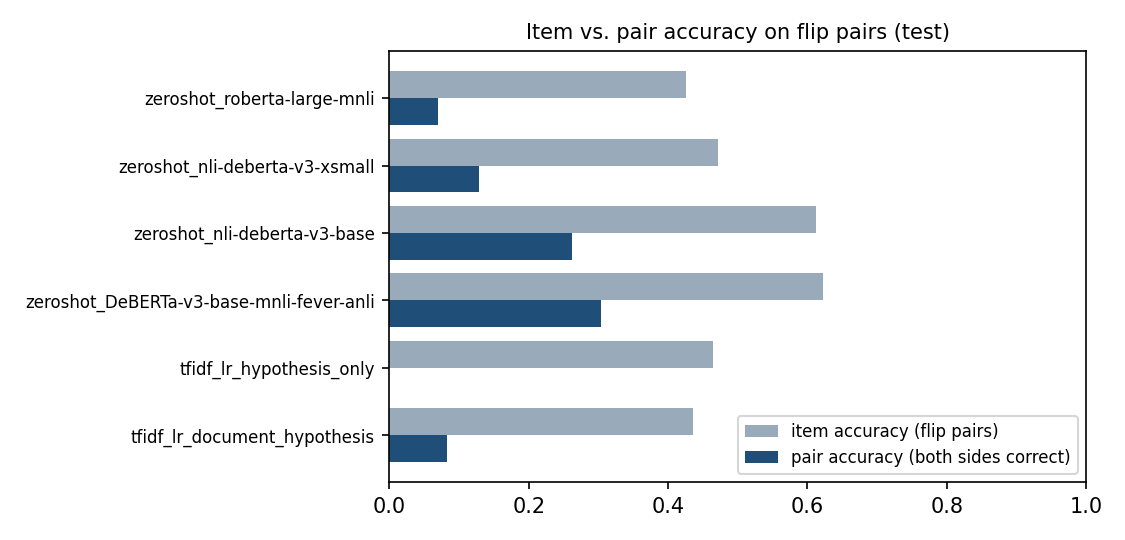
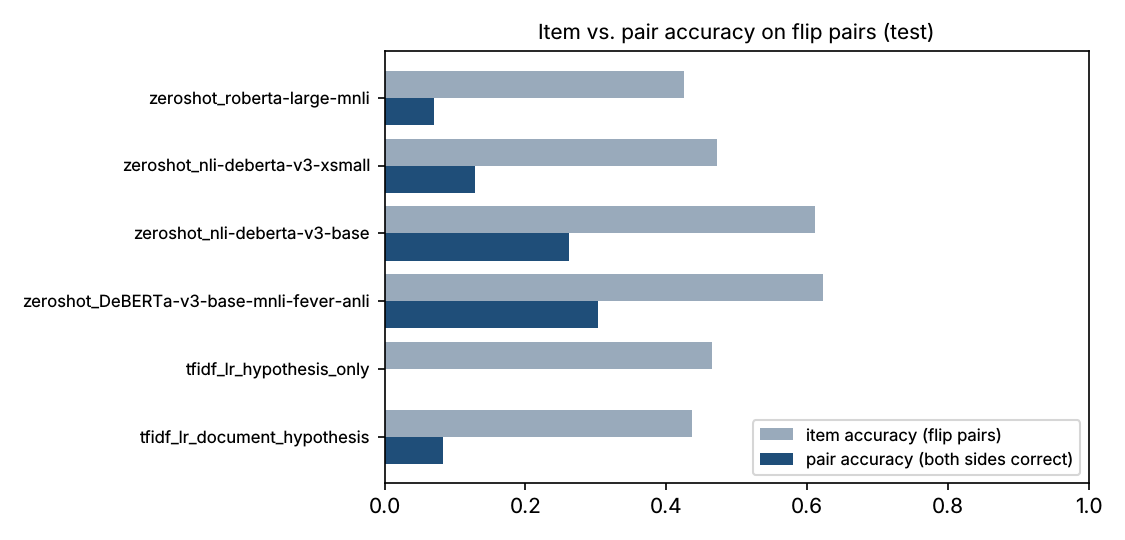
Results: reproduction check of stored zero-shot predictions
Automated checkpoint from scripts/run_cloud_queue.sh (tests passed, tables regenerated).

Claude-Session: https://claude.ai/code/session_01GGpeb3aQtBq4JH6BHTfvnv

diff --git a/results/ERROR_ANALYSIS.md b/results/ERROR_ANALYSIS.md
@@ -26,6 +26,22 @@
 | contradicted | 330 | 611 | 2 |
 | insufficient | 208 | 403 | 7 |
 
+**zeroshot_DeBERTa-v3-base-mnli-fever-anli**
+
+| gold \ pred | entailed | contradicted | insufficient |
+|---|---|---|---|
+| entailed | 454 | 400 | 145 |
+| contradicted | 172 | 676 | 95 |
+| insufficient | 125 | 263 | 230 |
+
+**zeroshot_nli-deberta-v3-base**
+
+| gold \ pred | entailed | contradicted | insufficient |
+|---|---|---|---|
+| entailed | 518 | 400 | 81 |
+| contradicted | 281 | 604 | 58 |
+| insufficient | 170 | 281 | 167 |
+
 **zeroshot_nli-deberta-v3-xsmall**
 
 | gold \ pred | entailed | contradicted | insufficient |
@@ -33,6 +49,14 @@
 | entailed | 74 | 399 | 526 |
 | contradicted | 13 | 642 | 288 |
 | insufficient | 33 | 279 | 306 |
+
+**zeroshot_roberta-large-mnli**
+
+| gold \ pred | entailed | contradicted | insufficient |
+|---|---|---|---|
+| entailed | 0 | 384 | 615 |
+| contradicted | 0 | 638 | 305 |
+| insufficient | 0 | 288 | 330 |
 
 ## Exact-boundary edits (threshold_cross, date_cross)
 
@@ -43,7 +67,10 @@ Item accuracy on the side of the pair whose case value equals the cutoff ("more 
 | majority | 41 | 0.537 | 0.495 |
 | tfidf_lr_document_hypothesis | 41 | 0.122 | 0.412 |
 | tfidf_lr_hypothesis_only | 41 | 0.195 | 0.545 |
+| zeroshot_DeBERTa-v3-base-mnli-fever-anli | 41 | 0.000 | 0.538 |
+| zeroshot_nli-deberta-v3-base | 41 | 0.000 | 0.530 |
 | zeroshot_nli-deberta-v3-xsmall | 41 | 0.000 | 0.323 |
+| zeroshot_roberta-large-mnli | 41 | 0.000 | 0.297 |
 
 ## Calibration (test, 10-bin ECE)
 
@@ -51,4 +78,7 @@ Item accuracy on the side of the pair whose case value equals the cutoff ("more 
 |---|---|---|---|
 | tfidf_lr_document_hypothesis | 0.017 | 0.412 | 0.413 |
 | tfidf_lr_hypothesis_only | 0.038 | 0.453 | 0.415 |
+| zeroshot_DeBERTa-v3-base-mnli-fever-anli | 0.345 | 0.876 | 0.531 |
+| zeroshot_nli-deberta-v3-base | 0.473 | 0.977 | 0.504 |
 | zeroshot_nli-deberta-v3-xsmall | 0.558 | 0.957 | 0.399 |
+| zeroshot_roberta-large-mnli | 0.517 | 0.895 | 0.378 |
